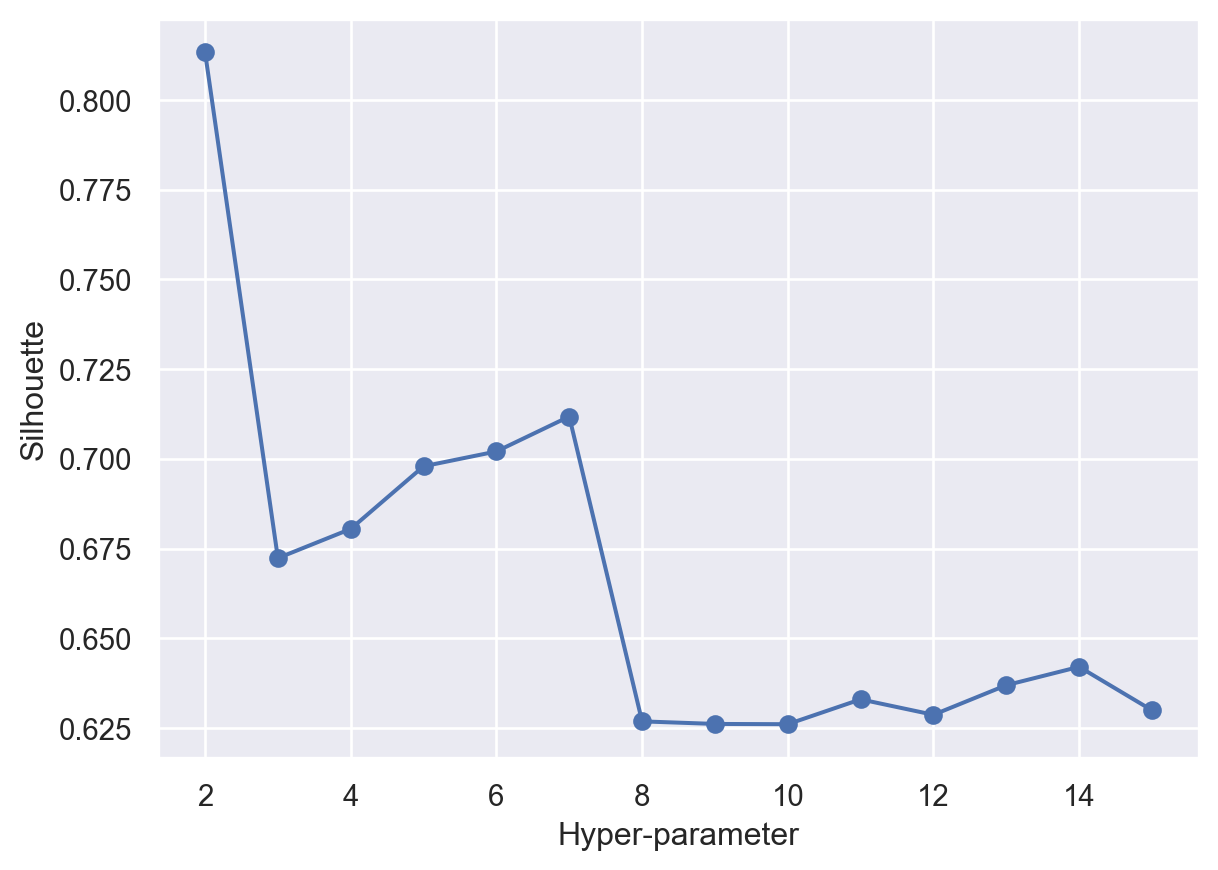
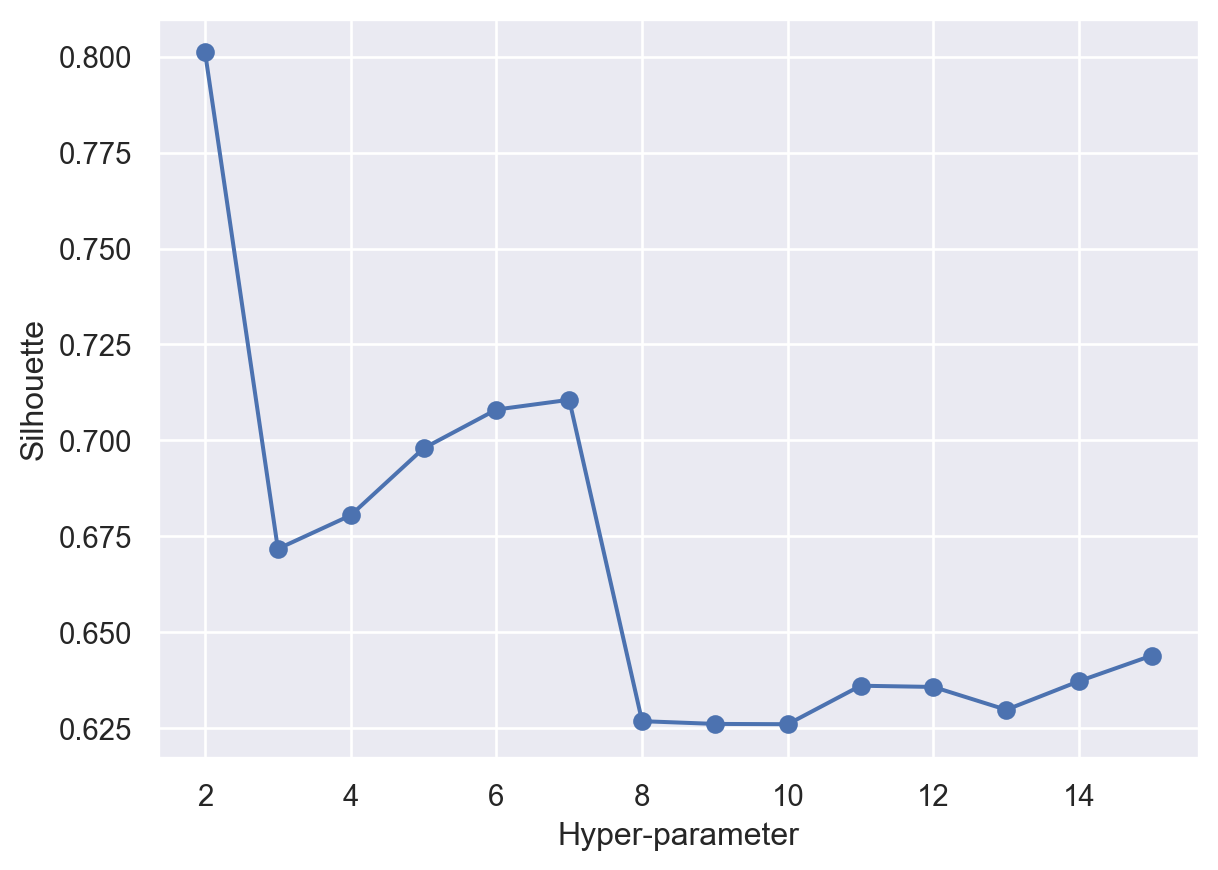
GITHUB-UPLOAD:DATE-2022-11-20-TIME-15-21-19

diff --git a/codes/07-clustering/_site/clustering.html b/codes/07-clustering/_site/clustering.html
@@ -230,10 +230,10 @@ code span.wa { color: #60a0b0; font-weight: bold; font-style: italic; } /* Warni
     <a class="nav-link" href="https://flynnflag.quarto.pub/06-svm/svm.html">SVM</a>
   </li>  
   <li class="nav-item">
-    <a class="nav-link active" href="./clustering.html" aria-current="page">Cluster</a>
+    <a class="nav-link" href="https://flynnflag.quarto.pub/07-clustering/clustering.html">Cluster</a>
   </li>  
   <li class="nav-item">
-    <a class="nav-link" href="./clustering.html">ARM and Networking</a>
+    <a class="nav-link active" href="./clustering.html" aria-current="page">ARM and Networking</a>
   </li>  
   <li class="nav-item">
     <a class="nav-link" href="./clustering.html">Conclusion</a>
@@ -280,9 +280,9 @@ code span.wa { color: #60a0b0; font-weight: bold; font-style: italic; } /* Warni
 <section id="theory" class="level2">
 <h2 class="anchored" data-anchor-id="theory">Theory</h2>
 <p>Three clustering methods will be used in the following content, namely,<strong>KMEAN</strong>,<strong>DBSAN</strong> and <strong>Hierarchical Clustering</strong>. These tree methods are all based on the similarity(by calculating euclidean distance) of the instance.</p>
-<p>Kmeans clusters the instances by continuously searching K centers.</p>
-<p>DBSAN groups the data points which the extent of similarity is below a certain level.</p>
-<p>Hierarchical Clustering sequentially combine the most similar instances/groups. The similarity in a combination should below a certain level.</p>
+<p>Kmeans clusters the instances by continuously searching K centers. I will use both elbow method and silhouette method to decide how much groups it should be.</p>
+<p>DBSAN groups the data points which the extent of similarity is below a certain level. I will use nearestneighbors to decide the extent of similarity I should choose.</p>
+<p>Hierarchical Clustering sequentially combine the most similar instances/groups. Every single combination combines the most similar data point and set them as a level. The final group set can be any number I want. In this case, I will set 2 since this is the number the original data set says.</p>
 </section>
 <section id="method" class="level2">
 <h2 class="anchored" data-anchor-id="method">Method</h2>
@@ -306,7 +306,7 @@ code span.wa { color: #60a0b0; font-weight: bold; font-style: italic; } /* Warni
 <span id="cb1-11"><a href="#cb1-11" aria-hidden="true" tabindex="-1"></a>df<span class="op">=</span>df[df[<span class="st">"friends_count"</span>]<span class="op">&lt;</span><span class="dv">5</span>]</span>
 <span id="cb1-12"><a href="#cb1-12" aria-hidden="true" tabindex="-1"></a>df.head()</span></code><button title="Copy to Clipboard" class="code-copy-button"><i class="bi"></i></button></pre></div>
 </details>
-<div class="cell-output cell-output-display" data-execution_count="44">
+<div class="cell-output cell-output-display" data-execution_count="1">
 
 <div>
 
@@ -398,7 +398,7 @@ code span.wa { color: #60a0b0; font-weight: bold; font-style: italic; } /* Warni
 <span id="cb2-15"><a href="#cb2-15" aria-hidden="true" tabindex="-1"></a>plt.xlabel(<span class="st">"The value of K"</span>,fontsize<span class="op">=</span><span class="dv">16</span>)</span>
 <span id="cb2-16"><a href="#cb2-16" aria-hidden="true" tabindex="-1"></a>plt.ylabel(<span class="st">"Within cluster sum of squares(WCSS)"</span>,fontsize<span class="op">=</span><span class="dv">16</span>)</span></code><button title="Copy to Clipboard" class="code-copy-button"><i class="bi"></i></button></pre></div>
 </details>
-<div class="cell-output cell-output-display" data-execution_count="45">
+<div class="cell-output cell-output-display" data-execution_count="2">
 <pre><code>Text(0, 0.5, 'Within cluster sum of squares(WCSS)')</code></pre>
 </div>
 <div class="cell-output cell-output-display">
@@ -552,7 +552,7 @@ code span.wa { color: #60a0b0; font-weight: bold; font-style: italic; } /* Warni
 <span id="cb10-2"><a href="#cb10-2" aria-hidden="true" tabindex="-1"></a>a<span class="op">=</span>sns.scatterplot(x<span class="op">=</span><span class="st">"friends_count"</span>,y<span class="op">=</span><span class="st">"tweet_num"</span>,hue<span class="op">=</span><span class="st">"kmean"</span>,data<span class="op">=</span>df)</span>
 <span id="cb10-3"><a href="#cb10-3" aria-hidden="true" tabindex="-1"></a>a.set_title(<span class="st">"Kmean"</span>,fontsize<span class="op">=</span><span class="dv">20</span>)</span></code><button title="Copy to Clipboard" class="code-copy-button"><i class="bi"></i></button></pre></div>
 </details>
-<div class="cell-output cell-output-display" data-execution_count="51">
+<div class="cell-output cell-output-display" data-execution_count="8">
 <pre><code>Text(0.5, 1.0, 'Kmean')</code></pre>
 </div>
 <div class="cell-output cell-output-display">
@@ -567,7 +567,7 @@ code span.wa { color: #60a0b0; font-weight: bold; font-style: italic; } /* Warni
 <span id="cb12-2"><a href="#cb12-2" aria-hidden="true" tabindex="-1"></a>a<span class="op">=</span>sns.scatterplot(x<span class="op">=</span><span class="st">"friends_count"</span>,y<span class="op">=</span><span class="st">"tweet_num"</span>,hue<span class="op">=</span><span class="st">"DBSAN"</span>,data<span class="op">=</span>df)</span>
 <span id="cb12-3"><a href="#cb12-3" aria-hidden="true" tabindex="-1"></a>a.set_title(<span class="st">"DBSAN"</span>,fontsize<span class="op">=</span><span class="dv">20</span>)</span></code><button title="Copy to Clipboard" class="code-copy-button"><i class="bi"></i></button></pre></div>
 </details>
-<div class="cell-output cell-output-display" data-execution_count="52">
+<div class="cell-output cell-output-display" data-execution_count="9">
 <pre><code>Text(0.5, 1.0, 'DBSAN')</code></pre>
 </div>
 <div class="cell-output cell-output-display">
@@ -582,7 +582,7 @@ code span.wa { color: #60a0b0; font-weight: bold; font-style: italic; } /* Warni
 <span id="cb14-2"><a href="#cb14-2" aria-hidden="true" tabindex="-1"></a>a<span class="op">=</span>sns.scatterplot(x<span class="op">=</span><span class="st">"friends_count"</span>,y<span class="op">=</span><span class="st">"tweet_num"</span>,hue<span class="op">=</span><span class="st">"hierarchy"</span>,data<span class="op">=</span>df)</span>
 <span id="cb14-3"><a href="#cb14-3" aria-hidden="true" tabindex="-1"></a>a.set_title(<span class="st">"Hierarchy Clustering"</span>,fontsize<span class="op">=</span><span class="dv">20</span>)</span></code><button title="Copy to Clipboard" class="code-copy-button"><i class="bi"></i></button></pre></div>
 </details>
-<div class="cell-output cell-output-display" data-execution_count="53">
+<div class="cell-output cell-output-display" data-execution_count="10">
 <pre><code>Text(0.5, 1.0, 'Hierarchy Clustering')</code></pre>
 </div>
 <div class="cell-output cell-output-display">

diff --git a/501-project-website/about.html b/501-project-website/about.html
@@ -1,0 +1,74 @@
+<!DOCTYPE html>
+<html lang="en">
+    
+<head>
+    <title>Yifan Bian 501 project About</title>
+
+    <!-- point to css stylesheet -->
+    <style>
+        .nav_bar_bottom{height: 30px;display:flex; flex-direction: row;justify-content:flex-end;padding-right: 40px;background-color:#041E42;padding-top: 10px;}
+        .nav_bar_bottom a:link{color:white ;}
+        .nav_bar_bottom a:visited{color:white;}
+        .nav_bar_bottom a{text-decoration: none;margin-left: 20px;font-size: 18px;}
+        .nav_bar_bottom a:hover{color: sandybrown;}
+        .nav_bar_top{display:flex; flex-direction: column;align-items:flex-start;padding-top:30px;padding-bottom :30px;padding-left: 40px;background-color:#002855;margin-top:0px;border-bottom: white 0.5px solid;}
+        .self{display:flex; flex-direction: row;justify-content:center;height: 350px;}
+        .about_details{display:flex; flex-direction: row;justify-content:center;}
+        .about_academic{display:flex; flex-direction: column;} 
+        .mid_part{padding-top: 80px;padding-bottom: 80px;background-color: #f9f9f9;}
+   </style>
+</head>
+
+<body>
+    <div class="nav_bar_top">
+        <p style="margin-left: 20px;font-size: 60px;font-weight:bold;margin-top: 0px;color:white;margin-bottom: 0px;font-style: oblique;">R&D Repository</p>
+        <p style="margin-left: 20px;margin-top:0;font-size: 15px;color: #f9f9f9;font-weight:bold;font-style: oblique;font-family:Sans-serif;">Yifan Bian's Projects at Georgetown University</p>
+    </div>
+    <div class="nav_bar_bottom">
+        <a href="intro.html">Data Science</a>
+        <a href="new_about.html">Prob & Stat</a>
+        <a href="new_about.html">Optimization</a>
+    </div>
+
+    <div class="mid_part">
+        <div class="self">
+            <div class="self_image" >
+                <img src="images/self.png" style="height:250px;width:250px;margin-right:100px;" >
+            </div>
+            <div class="self_intro">
+                <p style="color: #041E42;font-size: 50px;font-weight: bold;margin-top: 10px; margin-bottom: 10px;">Yifan Bian</p>
+                <p style="margin-top: 0px;font-size: 18px;">Graduate Student at Georgetown University</p>  
+                <p style="margin-top: 0px;font-size: 18px;">M.S. in Data Science and Analytics, B.A. in Journalism, B.E. in Finance</p>
+                <div class="contact">
+                    <a href="https://www.linkedin.com/in/yifan-bian-flynn/"> <img src="images/linkedin.png"></a>
+                    <a href="https://github.com/FlynnFlag"> <img src="images/github.png"></a>
+                    <a href="mailto:yb216@georgetown.edu"> <img src="images/envelope.png"></a>
+                </div> 
+  
+            </div>
+        </div>
+        <br>
+        <div class="about_details">
+            <div class="about_academic" style="border-top:1px solid  #041E42;width: 550px;">
+                <a style="color: #041E42;font-size: 27px;font-weight:bold;font-style: oblique;margin-bottom: 15px;margin-top: 25px;"> About</a>
+                <a style="font-size: 18px;margin-bottom: 5px;">I've been through moments like this many times: every time people hear about my background, they are always amazed at how diverse it is. Some people question whether I have made wrong decisions, others admire my attitudes and efforts.</a>
+                <a style="font-size: 18px;margin-bottom: 5px;">To me, what I'm doing makes perfect sense, as I want to be an interdisciplinary analyst/researcher, applying data science methods to different industries. My future is finding optimal solutions and making impact with my knowledge in multiple fields, rather than solely programming mechanically. </a>
+            </div>
+            <div style="width:80px;">
+            </div>
+            <div class="about_academic" style="border-top:1px solid  #041E42;width: 250px;">
+                <a style="color: #041E42;font-size: 27px;font-weight:bold;font-style: oblique;margin-bottom: 15px;margin-top: 25px;"> Academic Interests</a>
+                <a style="font-size: 18px;margin-bottom: 5px;">Optimization</a>
+                <a style="font-size: 18px;margin-bottom: 5px;">Visual Recognition</a>
+                <a style="font-size: 18px;margin-bottom: 5px;">Machine Learning</a>
+                <a style="font-size: 18px;margin-bottom: 5px;">Computational Linguistics</a>
+
+            </div>
+        </div>
+    </div>
+<footer style="background-color:#696c6b; padding-top: 10px;padding-bottom: 5px;">
+    <p style="color:white; margin-left: 60px;"> Yifan's R&D repository is powered by GU domain </p>
+</footer>
+</body>
+
+</html>
